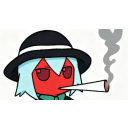
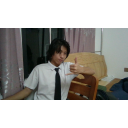
fix: update version to 1.1.0 and integrate AI model switching in coordinator

diff --git a/app/coordinator.py b/app/coordinator.py
@@ -39,11 +39,19 @@ from modules.zw_uart_module.protocol import (
     DATA_ALL_TARGETS,
     DATA_SEGMENTATION_MASK,
     NACK_UNSUPPORTED_TYPE,
+    NACK_NOT_READY,
 )
 from modules.zw_opencv_module.processors.base import VisionResult
 
 
 _CMD_TIMEOUT = 5.0
+
+_DATA_TYPE_MODEL = {
+    DATA_TARGET_POSITION:   "yolo11n",
+    DATA_TARGET_COUNT:      "yolo11n",
+    DATA_ALL_TARGETS:       "yolo11n",
+    DATA_SEGMENTATION_MASK: "plate_seg",
+}
 
 
 class Ti2026Coordinator:
@@ -54,6 +62,7 @@ class Ti2026Coordinator:
 
         self._uart_sender: Optional[callable] = None
         self._vision_manager: Optional[VisionManager] = None
+        self._ai = None
 
         self._sm_queue: Deque[Callable] = deque()
         self._sm_lock = threading.Lock()
@@ -84,6 +93,9 @@ class Ti2026Coordinator:
 
     def set_uart_sender(self, sender: callable) -> None:
         self._uart_sender = sender
+
+    def set_ai(self, ai) -> None:
+        self._ai = ai
 
     def _send(self, frame: bytes) -> bool:
         if self._uart_sender:
@@ -177,6 +189,14 @@ class Ti2026Coordinator:
             frame = build_cmd_nack_frame(data_type, NACK_UNSUPPORTED_TYPE)
             self._send(frame)
             return
+
+        if self._ai:
+            nick = _DATA_TYPE_MODEL.get(data_type)
+            if nick and self._ai.active_model != nick:
+                if not self._ai.switch(nick):
+                    frame = build_cmd_nack_frame(data_type, NACK_NOT_READY)
+                    self._send(frame)
+                    return
 
         with self._cmd_lock:
             self._streaming_type = data_type

diff --git a/framework/hal/platforms/maixcam2/ai.py b/framework/hal/platforms/maixcam2/ai.py
@@ -64,6 +64,9 @@ class MaixCam2AI:
         del self._registry[nick_name]
         logger.info("Removed model '%s'", nick_name)
 
+    # TODO: 预加载所有模型到 NPU，switch() 改为纯指针交换 (O(1), ~1µs)
+    # 当前每次 switch() 重新从 flash 加载 .mud 到 NPU (~200-500ms)
+    # 双模型 CMM 约 30-40MB，256MB CMM 完全可接受
     def switch(self, nick_name: str) -> bool:
         if nick_name not in self._registry:
             logger.error("Cannot switch to unknown model '%s'", nick_name)

diff --git a/app/main.py b/app/main.py
@@ -123,6 +123,8 @@ def main():
     if uart:
         coordinator.set_uart_sender(uart.send_raw)
 
+    coordinator.set_ai(machine.ai)
+
     display_callback = _build_display_callback(manager, machine)
 
     coordinator.start()
